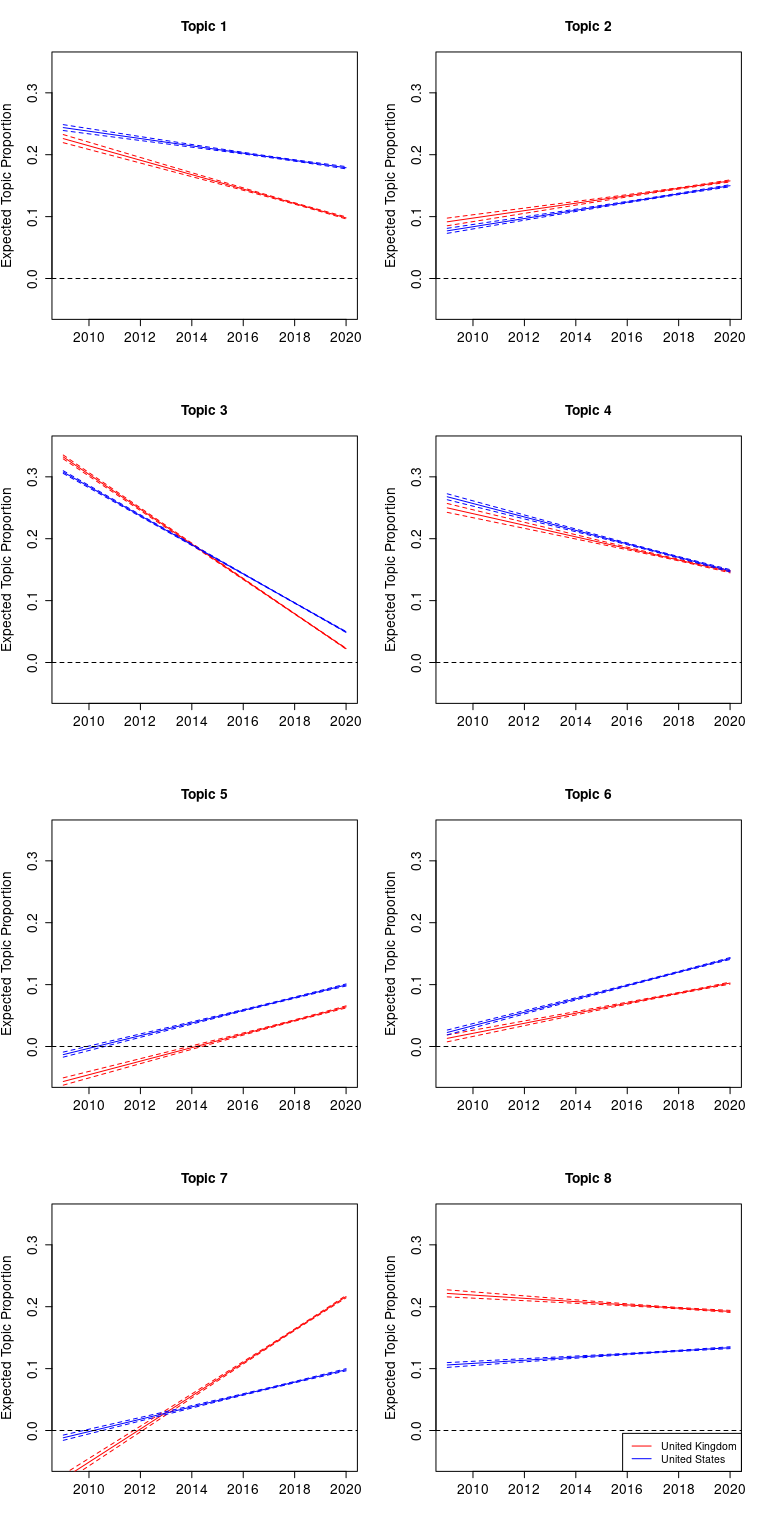
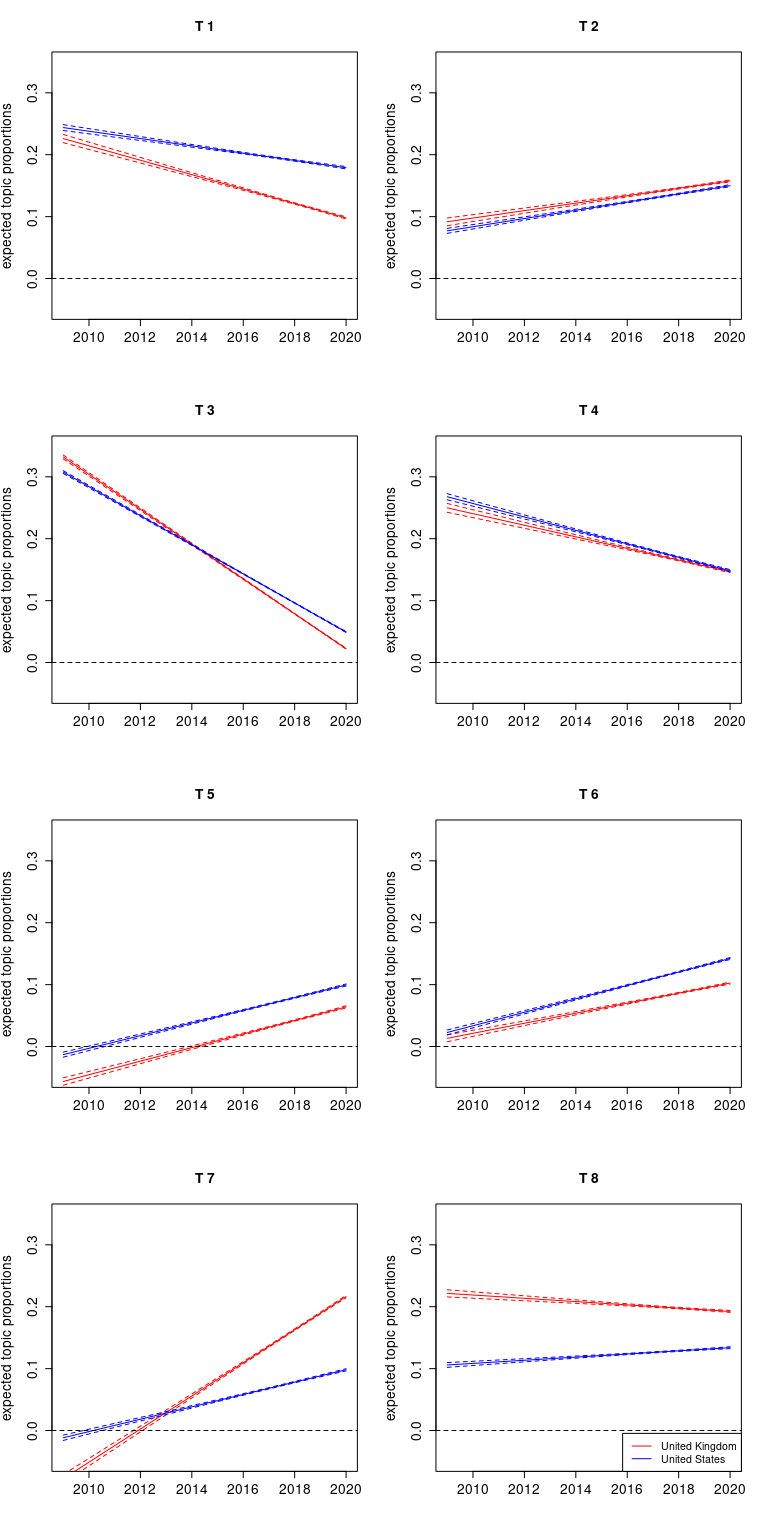
Add raw description, fix typos/wording.

diff --git a/doc/topic_modeling/modeling_report.md b/doc/topic_modeling/modeling_report.md
@@ -3,9 +3,9 @@
 
 > Martin Fridrich 03/2021
 
-The goal of this document is to preprocess the \#zerowaste tweets,
-examine properties of the resulting dataset, find viable topic model,
-and present imprinted perspectives. The study is structured as follows:
+This document aims to preprocess the \#zerowaste tweets, examine
+properties of the resulting dataset, find a viable topic model, and
+present imprinted perspectives. The study is structured as follows:
 
 1 [Housekeepin’](#housekeepin)  
 2 [Data processing](#data-processing)  
@@ -15,13 +15,17 @@ processing](#covariate-character-document-level-processing)
   2.3 [Execution](#execution)  
 3 [Exploratory data analysis](#exploratory-data-analysis)  
 4 [Topic modeling](#topic-modeling)  
-  4.1 [Hyperparameters sweep](#hyperparameters-sweep)  
+  4.1 [Hyperparameter sweep](#hyperparameter-sweep)  
   4.2 [Topic labels](#topic-labels)  
   4.3 [Covariates](#covariates)  
   4.4 [Correlation map](#correlation-map)  
-5 [Discussion](#discussion)
+5 [Next steps](#next-steps)
 
 ## Housekeepin’
+
+In the opening section, we load required libs, import raw CSV files &
+union them into the resulting data.frame. In addition, we sanitize the
+column names and present the overall structure of the dataset.
 
 ``` r
 data_dir = "..//..//data//"
@@ -54,6 +58,16 @@ as_tibble(head(raw_tweets))
     ## #   in_quote_to_user <chr>
 
 ## Data processing
+
+In this section, we outline and implement covariate, character, document
+& token level transformation steps. Covariates transformation include
+datetime conversion & state extraction. Character level processing
+transforms the tweets to lower case, removes XML tags, removes links,
+unusual characters, and collapses multiple spaces. Document-level
+processing is conservative; we keep only tweets written in English and
+originated in the US/UK. Consequently, we annotate the tokens with
+`udpipe` and retain only `VERB`, `ADJ` & `NOUN` observed in at least ten
+separate tweets.
 
 ### Covariate, character & document-level processing
 
@@ -163,6 +177,10 @@ purge_annot = function(doc_df){
 
 ### Execution
 
+The next code chunk applies the outlined transformation to the raw data.
+Pieces of character & token level processing are done in a parallel
+manner.
+
 ``` r
 st = Sys.time()
 print("Entering processing stage...")
@@ -187,6 +205,8 @@ print(paste0("The procedure finished in ", format(Sys.time()-st, digits=2) ,".")
 
     ## [1] "The procedure finished in 18 mins."
 
+Let’s construct the objects expected by the downstream STM model.
+
 ``` r
 processed = textProcessor(documents=tweets$text,
   metadata=tweets, lowercase=F, removestopwords=F,
@@ -199,6 +219,9 @@ meta = processed$meta
 
 ## Exploratory data analysis
 
+Within this section, we extract & examine selected properties of the
+processed tweets.
+
 ``` r
 # tweets per year
 hist(meta$year,
@@ -210,6 +233,10 @@ hist(meta$year,
 ```
 
 <img src="modeling_report_files/figure-gfm/year_histogram-1.png" style="display: block; margin: auto;" />
+
+In the plot above, we can see a steady incline until 2019, a decline
+since. The behavior is aligned with what we see in the original data
+set.
 
 ``` r
 # tokens & chars per tweet
@@ -235,6 +262,11 @@ hist(n_tokens,
 
 <img src="modeling_report_files/figure-gfm/char_tok_histograms-1.png" style="display: block; margin: auto;" />
 
+From the left plot, we can see that approx. half of the tweets are
+shorter than 80 chars. The right chart shows that 75 % of the tweets
+consist of 16 words or less. As a result, we have smaller & hopefully
+less cluttered texts.
+
 ``` r
 # the most frequent tokens
 freq_df = data.frame(doc) %>% data.table::transpose() %>%
@@ -243,7 +275,7 @@ freq_df = data.frame(doc) %>% data.table::transpose() %>%
   mutate(token=voc[token])
 
 par(mfrow=c(1,2))
-hist(x=log10(freq_df$count), main="Token frequency",
+hist(x=log10(freq_df$count), main="token frequency",
   ylab="frequency", xlab="log10 count", breaks=25,
   cex.lab=0.8, cex.main=0.8, cex.axis=0.8)
 with(tail(freq_df, 20),
@@ -253,10 +285,24 @@ with(tail(freq_df, 20),
 ```
 
 <img src="modeling_report_files/figure-gfm/tok_bars-1.png" style="display: block; margin: auto;" />
+The first plot (left) describes frequency per token; the distribution is
+heavily right-skewed, 75 % of the entities are not witnessed more than
+65. In the second plot (right), one can see the most common word tokens.
+The most popular token is `#zerowaste`; lemmas related to general
+sentence composition are successfully removed.
 
 ## Topic modeling
 
-### Hyperparameters sweep
+This section deals with several steps; we define the structural topic
+model and specific covariate formula, propose & implement
+straightforward optimization to estimate a satisfying number of topics.
+Also, we present several tools to aid human comprehension of the model.
+
+### Hyperparameter sweep
+
+In the next code chunk, we employ multiobjective grid-search
+optimization to find viable candidate models. The evaluation metrics
+involve exclusivity and semantic coherence.
 
 ``` r
 evaluate_topics = function(k, doc, voc, meta){
@@ -279,6 +325,9 @@ colnames(sweep_df) = NULL; rownames(sweep_df) = c("k", "semcoh", "frex");
 sweep_df = as.data.frame(t(sweep_df))
 ```
 
+Consequently, L2 distance from the utopia point is estimated, and five
+models are selected (see in red).
+
 ``` r
 # plotting & selection
 
@@ -296,8 +345,8 @@ sweep_df$dist = ((1-sweep_df$frex_scaled)^2+(1-sweep_df$semcoh_scaled)^2)^(1/2)
 max_dist =  arrange(sweep_df, dist) %>% select(dist) %>% slice(5) %>% unlist()
 
 plot(x=sweep_df$semcoh_scaled, y=sweep_df$frex_scaled, type='n',
-     xlab='Semantic coherence',
-     ylab='Exclusivity',
+     xlab='semantic coherence',
+     ylab='exclusivity',
      cex.axis=0.75,
      cex.lab=0.75)
 
@@ -305,6 +354,10 @@ for(r in 1:nrow(sweep_df)){
   text(x=sweep_df$semcoh_scaled[r], y=sweep_df$frex_scaled[r], label=sweep_df$k[r],
     cex=0.75, col = ifelse(sweep_df$dist[r]<=max_dist,"red","black"))}
 ```
+
+Let’s build the topic model! Note the prevalence formula - we estimate
+topical prevalence as linear in time and allow for the first-order
+interactions.
 
 ``` r
 stm_model = stm(documents=doc, vocab=voc, data=meta,
@@ -321,14 +374,25 @@ cat(toprint)
 
 ### Topic labels
 
+First, we try to describe the topics with relevant tokens & texts. In
+the plot below, we can take a peek at topical prevalence & respective
+frequent entities.
+
 ``` r
 # topic prevalence & props
 par(mar=c(4,1,2,1))
 plot(stm_model, type='summary', labeltype='prob', main="top topics",
-  cex.lab=0.8, cex.axis=0.8, text.cex=0.8, cex.main=0.8, n=5)
+  xlab="expected topic proportions", cex.lab=0.8, cex.axis=0.8, text.cex=0.8,
+  cex.main=0.8, n=5)
 ```
 
 <img src="modeling_report_files/figure-gfm/topic_prevalence-1.png" style="display: block; margin: auto;" />
+
+There are, however, various techniques to identify exciting tokens
+within a latent factor Besides the observed probability, we include
+`frex`, `lift`, and `score` indicators to get descriptive lemmas (see
+the
+[vignette](https://cran.r-project.org/web/packages/stm/vignettes/stmVignette.pdf)).
 
 ``` r
 par(mfrow=c(4,1), mar=c(1,1,1,1))
@@ -343,6 +407,11 @@ plot(stm_model, type="labels", labeltype = "score", main="score",
 ```
 
 <img src="modeling_report_files/figure-gfm/topic_labeling-1.png" style="display: block; margin: auto;" />
+
+Furthermore, latent factors are examined from the perspective of the
+most representative documents. For each topic, we extract only tweets
+with a prevalence of 50 % or higher. For each tweet, original raw text
+is printed.
 
 ``` r
 # top tweets per topic
@@ -397,7 +466,7 @@ for (i in 1:stm_model$settings$dim$K){
   plot(ee, model=stm_model, topics=i, covariate="year", method="continuous",
     moderator="state", moderator.value = "United Kingdom", linecol="red",
     printlegend=F, ylim=c(-0.05,0.35), cex.axis=1.3, cex.lab=1.3, cex.main=1.3,
-    main=paste0("Topic ",i))
+    main=paste0("T ",i), ylab="expected topic proportions")
   plot(ee, model=stm_model, topics=i, covariate="year", method="continuous",
     moderator="state", moderator.value = "United States", linecol="blue",
     printlegend=F, add=T)
@@ -427,17 +496,17 @@ ggraph(tc_net, 'kk')+
   scale_edge_width(range = c(0.5, 2), breaks = c(0.1,0.2,0.3))+
   geom_node_point(aes(size=proportion))+
   scale_size(range = c(0.5, 2), breaks = c(0.125, 0.15, 0.175))+
-  geom_node_text(aes(label=paste0("Topic ", name)), size=4, repel=T)+
+  geom_node_text(aes(label=paste0("T ", name)), size=4, repel=T)+
   theme_graph(base_family = 'sans',
     background='white', plot_margin = margin(15, 15, 15, 15))+
   theme(legend.position="right",
     legend.title = element_text(size=10), legend.text=element_text(size=8))+
   labs(edge_alpha='Pearson\'s correlation',
-  edge_width='Pearson\'s correlation', size='Average topic prevalance')
+  edge_width='Pearson\'s correlation', size='topic prevalance')
 ```
 
 <img src="modeling_report_files/figure-gfm/corr_network-1.png" style="display: block; margin: auto;" />
 
-## Discussion
+## Next steps
 
 > Martin Fridrich 03/2021
